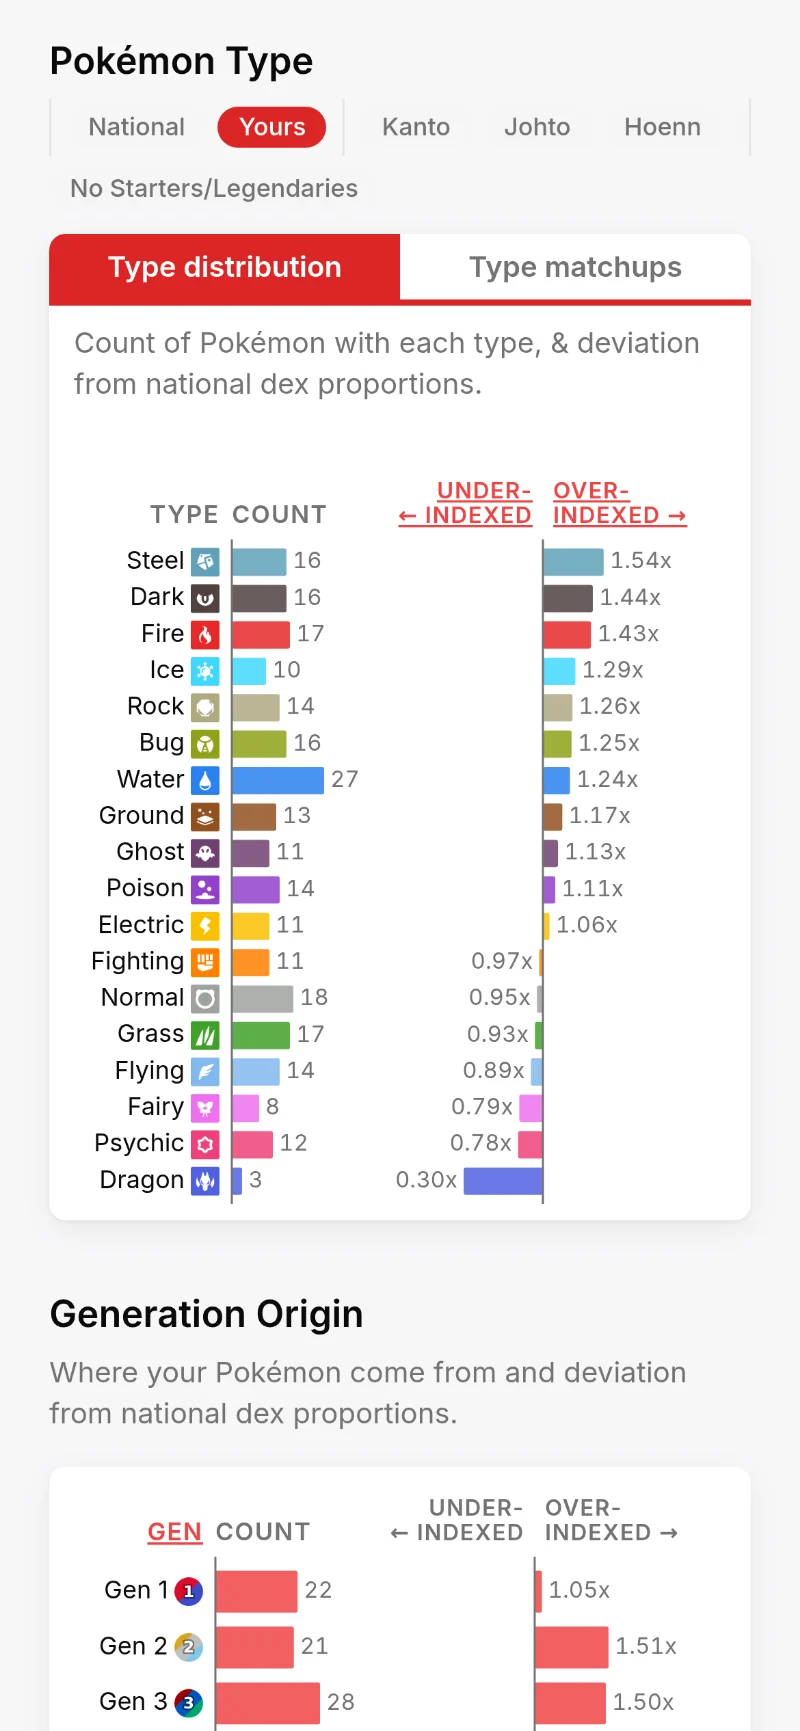
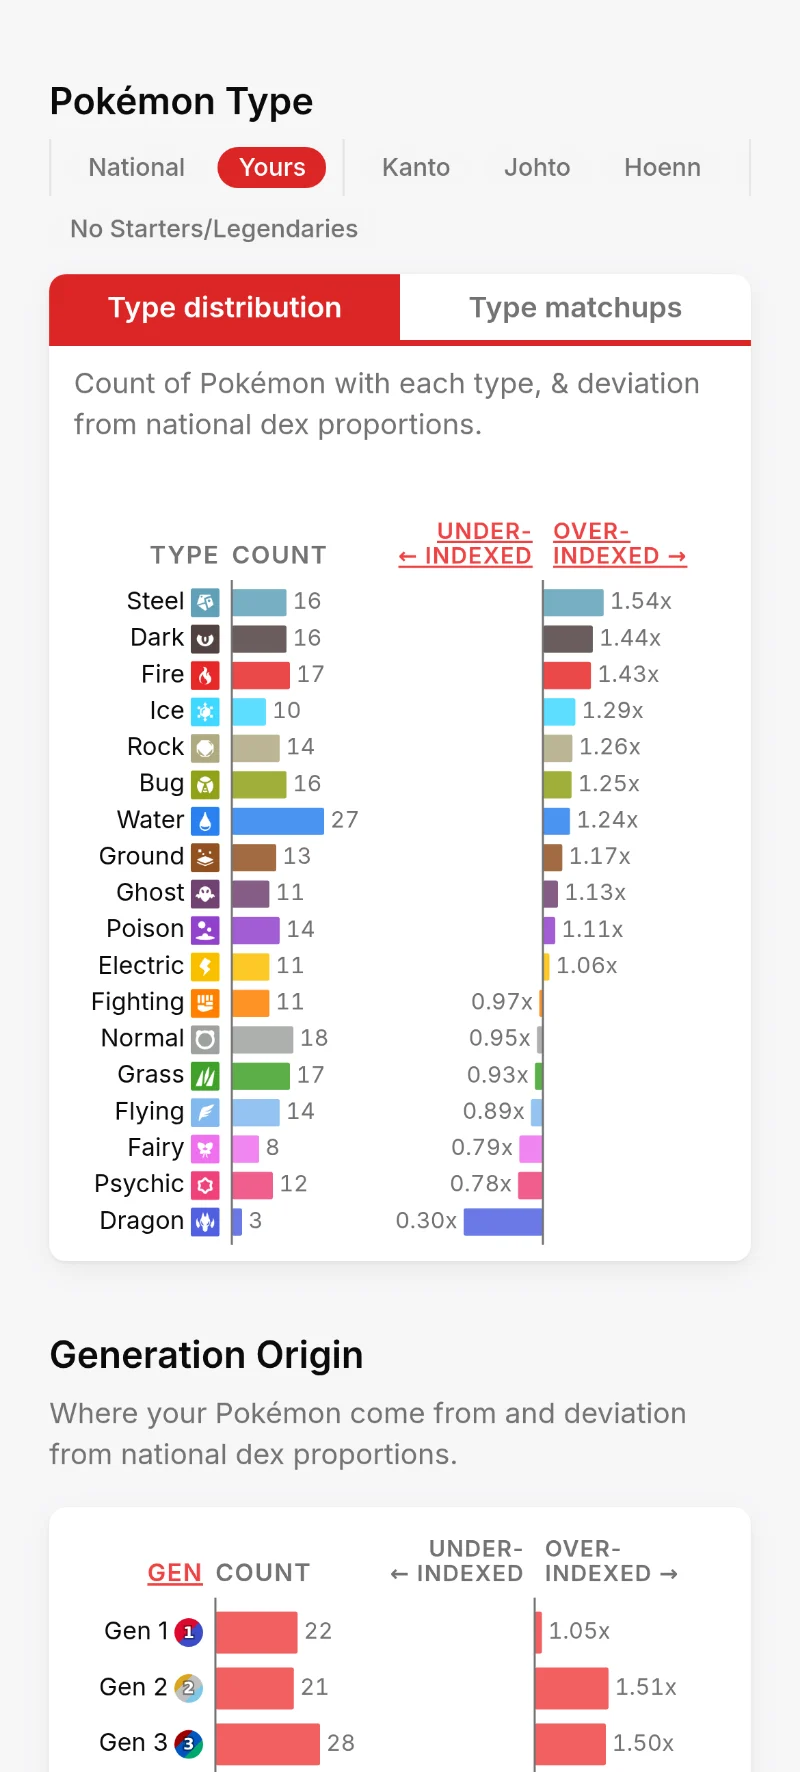
feat(home): pad each shot's top, crop its dead space, and export the dex one too
The card rounds every shot at a phone's radius, and that curve was reaching
the first line of text: 18px down an 800px shot the corner is still 41px in
from the left, which is where the dex's first section label sits. Each shot
now carries a band of 5% of its width above it, in its own top-left colour —
the page's grey on the analytics shot, the frame's olive on the trainer card.
Sampled rather than named, so a change to either colour follows.

Below the content, the dead space is cropped rather than made transparent.
The card paints each shot on a white bordered box, so a transparent region
would still draw as a white rounded rectangle and keep its bytes. Cropping
loses neither: the card already clips every shot at the panel's bottom edge,
well above where any of them now end.

The dex shot is the View page's export, which is what the other three already
were. It is the file a visitor would get, footer line and all, with none of
the app's editing chrome.

Two things follow. No single aspect ratio describes four assets cropped to
their own content, so the shadow box takes its shape from a hidden copy of
the screenshot instead of a hardcoded one. And the sweep gains a check that
every shot still reaches the panel's bottom edge — an over-crop is a change
to a file, invisible to a type check and to every other check there.

diff --git a/e2e/sweeps/home-sweep.spec.ts b/e2e/sweeps/home-sweep.spec.ts
@@ -144,7 +144,17 @@ test.describe('home page responsive sweep', () => {
             }
           });
 
-          // 8. Artwork breaks out of the panel's top and left, so it has to
+          // 8. Every screenshot still reaches the panel's bottom edge. The
+          // assets are cropped to their own content — the dex's grid ends above
+          // the app's footer, an export ends at its own edge — so one cropped
+          // too far would leave bare red under the artwork. That is a change to
+          // a file, invisible to a type check and to every other check here.
+          [...cell.querySelectorAll('img')].forEach((img, k) => {
+            const short = c.bottom - R(img).bottom;
+            if (short > 0.5) fail.push(`card ${i} shot ${k} stops ${short.toFixed(1)}px above the panel's edge`);
+          });
+
+          // 9. Artwork breaks out of the panel's top and left, so it has to
           // clear both the card above it and the window's own left edge.
           [...cell.querySelectorAll('img')].forEach((img, k) => {
             const r = R(img);
@@ -160,7 +170,7 @@ test.describe('home page responsive sweep', () => {
             });
           });
 
-          // 9. A card with no artwork carries the build mark instead. It stays
+          // 10. A card with no artwork carries the build mark instead. It stays
           // wholly inside its panel, and where it is the only thing in there it
           // sits centred. Centred means the two centres agree — not equal air on
           // every side, which a panel wider than it is tall never has.
@@ -179,7 +189,7 @@ test.describe('home page responsive sweep', () => {
           }
         });
 
-        // 10. The band's own knobs resolve to what the band intends. This repo
+        // 11. The band's own knobs resolve to what the band intends. This repo
         // sets `--breakpoint-md: 1024px`, and Tailwind sorts that px value ahead
         // of `sm`'s 40rem, so it emits the md block FIRST: a bare `sm:` utility
         // silently beats its own `md:` override above 1024px. That is invisible
@@ -194,7 +204,7 @@ test.describe('home page responsive sweep', () => {
           fail.push(`gutter is ${pad.toFixed(2)}%, expected ${wantPad}% at ${window.innerWidth}px`);
         }
 
-        // 11. Hero copy stays inside the frame and breaks rather than overrunning.
+        // 12. Hero copy stays inside the frame and breaks rather than overrunning.
         const hero = document.querySelector('main > section');
         [...(hero?.querySelectorAll('h1, p') ?? [])].forEach((e, i) => {
           const r = R(e);

diff --git a/src/components/home/HomePage.tsx b/src/components/home/HomePage.tsx
@@ -43,8 +43,6 @@ const BLURB = `min(${U(7.6)}, 15.6px)`;
 // lands where it would have anyway.
 const BLEED = U(34);
 
-// A screenshot is a phone viewport, so its height follows from its width.
-const SHOT_ASPECT = 390 / 844;
 /**
  * Corner radius as a share of the screenshot's width.
  *
@@ -233,6 +231,13 @@ function Caption({ tool }: { tool: Tool }) {
  * screenshots break out there, and both stop at its bottom, which is the only
  * edge that cuts them. The shadows get their own box with a fade, so they thin
  * out instead of ending on a straight line at that edge.
+ *
+ * The shadow box holds a hidden copy of the same screenshot, which is what
+ * gives it the screenshot's shape. Each asset is cropped to its own content —
+ * the dex's grid ends above the app's footer, an export ends at its own edge —
+ * so no single aspect ratio describes all four, and a hardcoded one would put
+ * the shadow somewhere the picture is not. The copy costs one extra decode of
+ * an image the browser has already fetched.
  */
 function Artwork({ tool }: { tool: Tool }) {
   const box = {
@@ -268,13 +273,11 @@ function Artwork({ tool }: { tool: Tool }) {
           <span
             key={f.tilt}
             aria-hidden
-            style={{
-              ...place(i),
-              display: 'block',
-              height: `calc(${U(SHOT_W)} * var(--art) / ${SHOT_ASPECT})`,
-              boxShadow: '0 8px 20px -6px rgba(10, 10, 10, 0.35)',
-            }}
-          />
+            className="block"
+            style={{ ...place(i), boxShadow: '0 8px 20px -6px rgba(10, 10, 10, 0.35)' }}
+          >
+            <img src={tool.shots![i]} alt="" className="block w-full invisible" />
+          </span>
         ))}
       </span>
       <span style={box}>

diff --git a/docs/future-tools/home-page/README.md b/docs/future-tools/home-page/README.md
@@ -136,12 +136,12 @@ Five things it settles, so nobody has to do them by hand:
 - **No chrome to crop.** A headless viewport is the page and nothing else — no
   URL bar, no notch, no clock or battery. A capture from a real phone has all
   three and needs cropping; this has none.
-- **The app's own headers, cut.** The wordmark bar and the per-page bar under it
-  are chrome too, and they are in the viewport. The capture measures where they
-  end and starts below them, in a viewport a phone's height taller, so what is
-  left is exactly a phone's worth of content. `scrollTo` names a heading to
-  bring to the top of that frame — the analytics shot uses it to start at the
-  type charts rather than at What's Missing.
+- **The app's own headers, cut.** On a page shot the wordmark bar and the
+  per-page bar under it are chrome too, and they are in the viewport. The
+  capture measures where they end and starts below them, in a viewport a phone's
+  height taller, so what is left is exactly a phone's worth of content.
+  `scrollTo` names a heading to bring to the top of that frame — the analytics
+  shot uses it to start at the type charts rather than at What's Missing.
 - **Edge to edge.** Every shot is taken at a phone's width, so the page lays
   itself out for a phone and nothing is cut off at the sides. The assets that
   predate this were a wider render cropped to a phone's shape, which read as
@@ -158,18 +158,35 @@ Five things it settles, so nobody has to do them by hand:
   display. `OUT_WIDTH` is 800, captured at 3x and resampled once. The assets
   that predate this script are 286px wide and soften on a retina desktop.
 
-### The two league shots
+### Three of the four are exports
+
+The dex's View page and the league's two cards all export a PNG, and the export
+is the honest thing to show: it is the file a visitor would get, footer line and
+all, without the app's editing chrome around it. Each one goes through the
+button a person presses, so a change to what the export draws reaches these
+assets on the next run. Only the analytics shot is the app itself, because
+analytics has nothing to export.
+
+An export is shorter than a phone in proportion, so the frame ends at the
+image's own bottom edge rather than padding out to a full phone's height. What
+that saves is a fifth of the file and a band of dead colour in the asset — the
+card clips every shot well above there in any case.
+
+### The band at the top
+
+The card rounds each shot's corners at a phone's radius, and that curve eats
+into the first rows of pixels: 18px down an 800px-wide shot the curve is still
+41px in from the left, which is exactly where the dex's first section label
+starts. Every shot gets a band of 5% of its width above it, in its own top-left
+colour — the page's grey on the analytics shot, the card's frame on the trainer
+card export. Sampled rather than named, so a change to either colour follows.
+
+### The league shots' state
 
 The league builder is still on `claude/pokemon-league-builder-soqxj6`, so the
 script checks that branch out into `.league-shot-tree/`, builds it, and serves
 it beside this one. Once `pokemon-league-builder.html` is in this tree the
 worktree is skipped and both apps come from the same build.
-
-Those two shots are the PNGs the app exports, not the app: a trainer card is
-made to be shared as an image, so the image is the honest thing to show. The
-export is shorter than a phone in proportion, so the frame keeps the app's own
-page colour under it — none of which shows, because the card clips every shot at
-its bottom edge, well above where the export ends.
 
 The state behind them is `league-fixture.json`, written into the league store's
 persisted key before the app boots. A fixture rather than the app's own Kanto
@@ -181,7 +198,8 @@ the shot.
 
 To add or change a shot, edit the `SHOTS` map: `url` carries whatever query the
 state needs (`?demo=151` seeds a full Pokédex), `nav` names the view tab to press
-first, and `scrollTo` names a heading to bring to the top. Nothing else changes.
+first, `scrollTo` names a heading to bring to the top of a page shot, and
+`exportButton` finds the button that makes an export. Nothing else changes.
 
 ### Proving it
 
@@ -203,4 +221,7 @@ breakpoint inversion above is invisible to every geometric check.
 Seven mutations of the page each turn it red: an unshared overhang reserve, a
 call to action that stops spanning, one that mounts on desktop, screenshots
 grown until the red strip closes, a bare `sm:` gutter, an off-centre build mark,
-and artwork popped far enough left to leave the window.
+artwork popped far enough left to leave the window, and a shot too short to
+reach the panel's bottom edge — that last one because the assets are cropped to
+their own content, and one cropped too far would leave bare red under the
+artwork without failing a type check.
